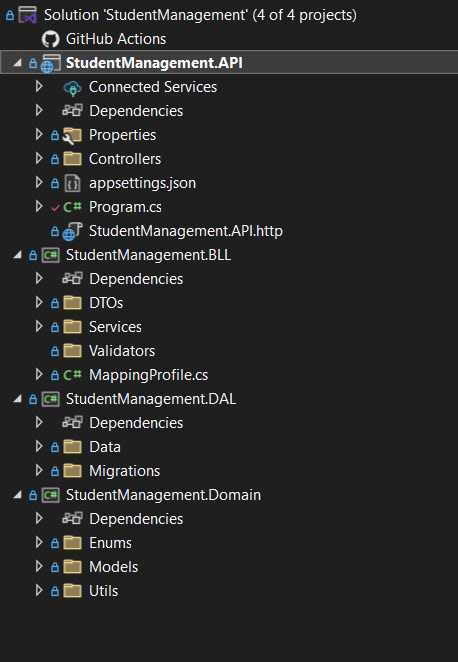
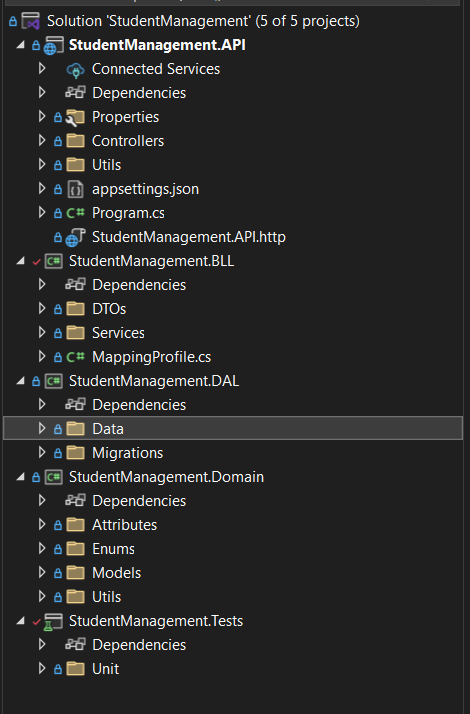
edit README

Changed region(s): [[0.0, 0.0, 1.0, 0.9668]]

diff --git a/README.md b/README.md
@@ -4,22 +4,26 @@
 
 ### Backend:
 ![alt text](Images/image.png)
-- `StudentManagement.API`: Lớp API cung cấp các endpoints để tương tác với hệ thống.
+- `StudentManagement.API`: Project API cung cấp các endpoints để tương tác với hệ thống.
     - **`Controllers/`**: Chứa các controller định nghĩa các API endpoint.
-    - **`appsettings.json`**: Tệp cấu hình của ứng dụng.
+    - **`appsettings.json`**: Tệp cấu hình chính của ứng dụng, lưu trữ thông tin về database, logging, các API bên thứ 3,...
+    - **`Utils`**: Chứa class ApiResponse để chuẩn hóa phản hồi từ API
     - **`Program.cs`**: Entry point của ứng dụng API.
-- `StudentManagement.BLL`: Lớp Business Logic Layer (BLL) chứa các logic nghiệp vụ.
+- `StudentManagement.BLL`: Project Business Logic Layer (BLL) chứa các logic nghiệp vụ.
     - **`DTOs/`**: Chứa các Data Transfer Object (DTO) để trao đổi dữ liệu giữa các tầng.
     - **`Services/`**: Chứa các service xử lý logic nghiệp vụ.
-    - **`MappingProfile.cs`**: Cấu hình AutoMapper để ánh xạ dữ liệu giữa các tầng.
-- `StudentManagement.DAL`: Lớp Data Access Layer (DAL) để truy xuất và quản lý dữ liệu.
-    - **`Data/`**: Chứa các context và repository để làm việc với database.
+    - **`MappingProfile.cs`**: Cấu hình AutoMapper để ánh xạ dữ liệu giữa Enity và DTO.
+
+- `StudentManagement.DAL`: Project Data Access Layer (DAL) để truy xuất và quản lý dữ liệu.
+    - **`Data/`**: Chứa các ApplicationDbcontext, AuditInterceptor, utils và repositories để làm việc với database.
     - **`Migrations/`**: Chứa các tệp migration để cập nhật database schema.
-- `StudentManagement.Domain`: Lớp chứa các định nghĩa thực thể và cấu trúc dữ liệu chung.
+- `StudentManagement.Domain`: Project chứa các định nghĩa thực thể và cấu trúc dữ liệu chung.
     - **`Enums/`**: Chứa các enum dùng chung trong hệ thống.
     - **`Models/`**: Chứa các model định nghĩa thực thể dữ liệu.
     - **`Utils/`**: Chứa các hàm tiện ích chung.
-
+    - **`Attributes`**: Chứa class UniqueConstrainAttribute dùng để đánh dấu một thuộc tínhtrong model cần đảm bảo tính duy nhất.
+- `StudentManagement.Tests`: Project chứa các unit tests cho ứng dụng.
+    - **`Units/`**: Chứa các unit test của ứng dụng.
 ### Frontend:
 ![alt text](Images/image-1.png)
 - **`public`**: chứa các image, icon,… của trang web
@@ -39,7 +43,10 @@
 - **`next.config.ts`**: cấu hình Next.js (ví dụ: rewrites, redirects)
 - **`package.json`**: danh sách package, scripts
 - **`package-lock.json`**: khóa phiên bản package (đảm bảo cài đúng)
-
+## Hình ảnh minh chứng các chức năng của úng dụng
+### Thêm logging mechanism để troubleshooting production issue & audit purposes
+- Kế thừa từ SaveChangesInterceptor để can thiệp vào quá trình SaveChanges của Entity Framework, từ đó ghi lại lịch sử thay đổi dữ liệu (audit logging) khi thao tác với database, nếu có lỗi sẽ thông báo vào error message. Logs sẽ được ghi vào database.
+![alt text](Images/image-2.png)
 ## Hướng dẫn cài đặt & chạy chương trình
 ### Backend:
 
